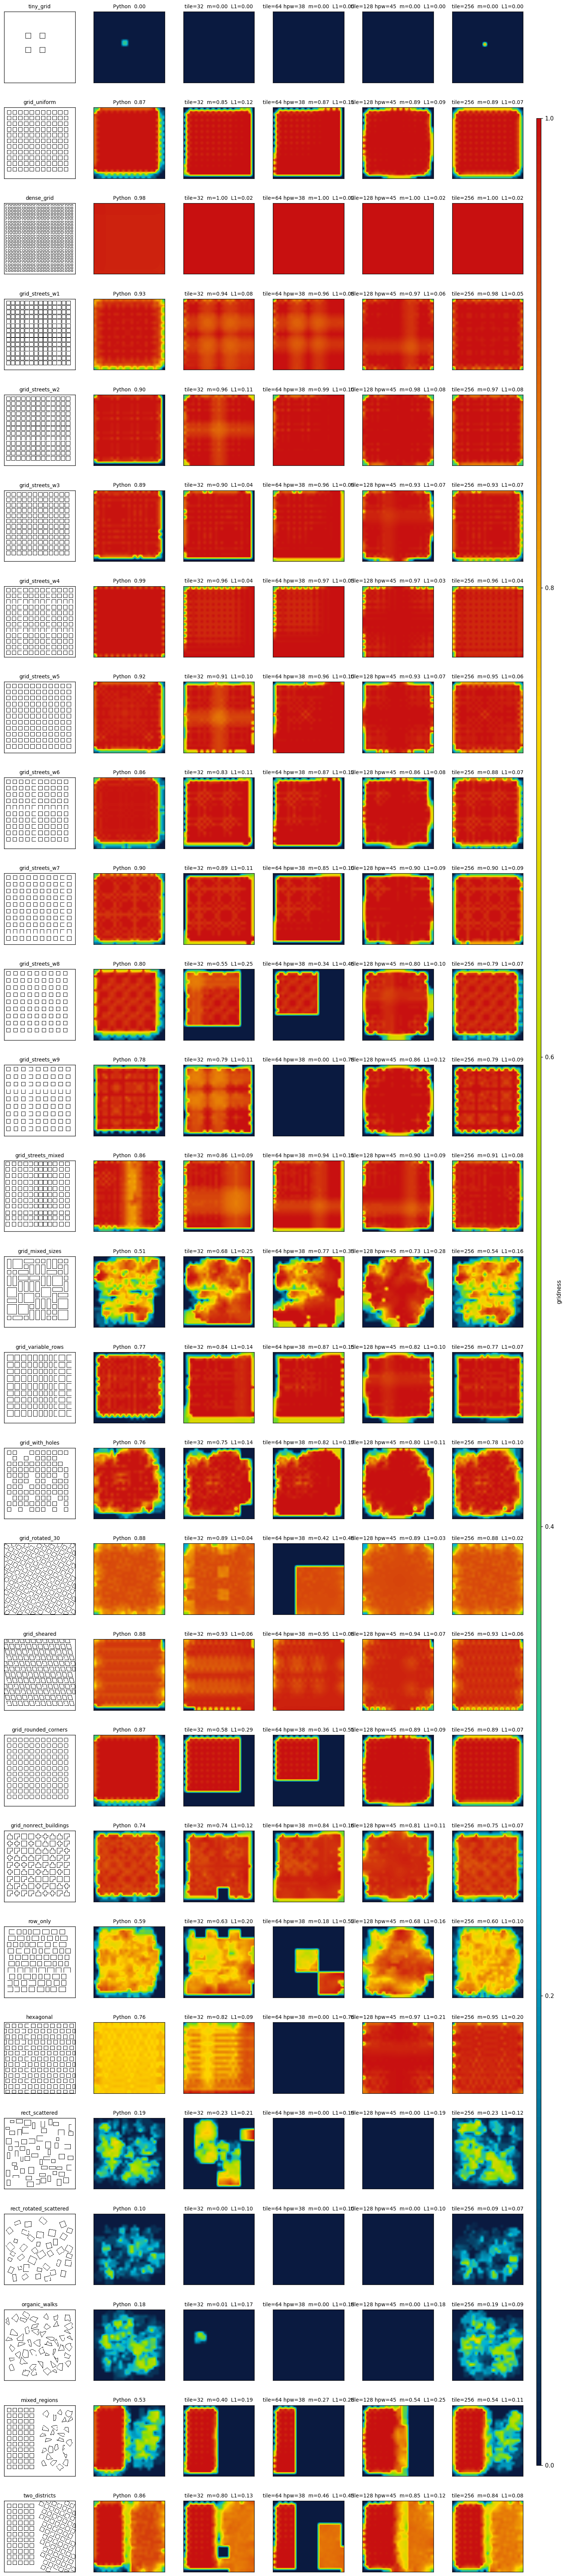
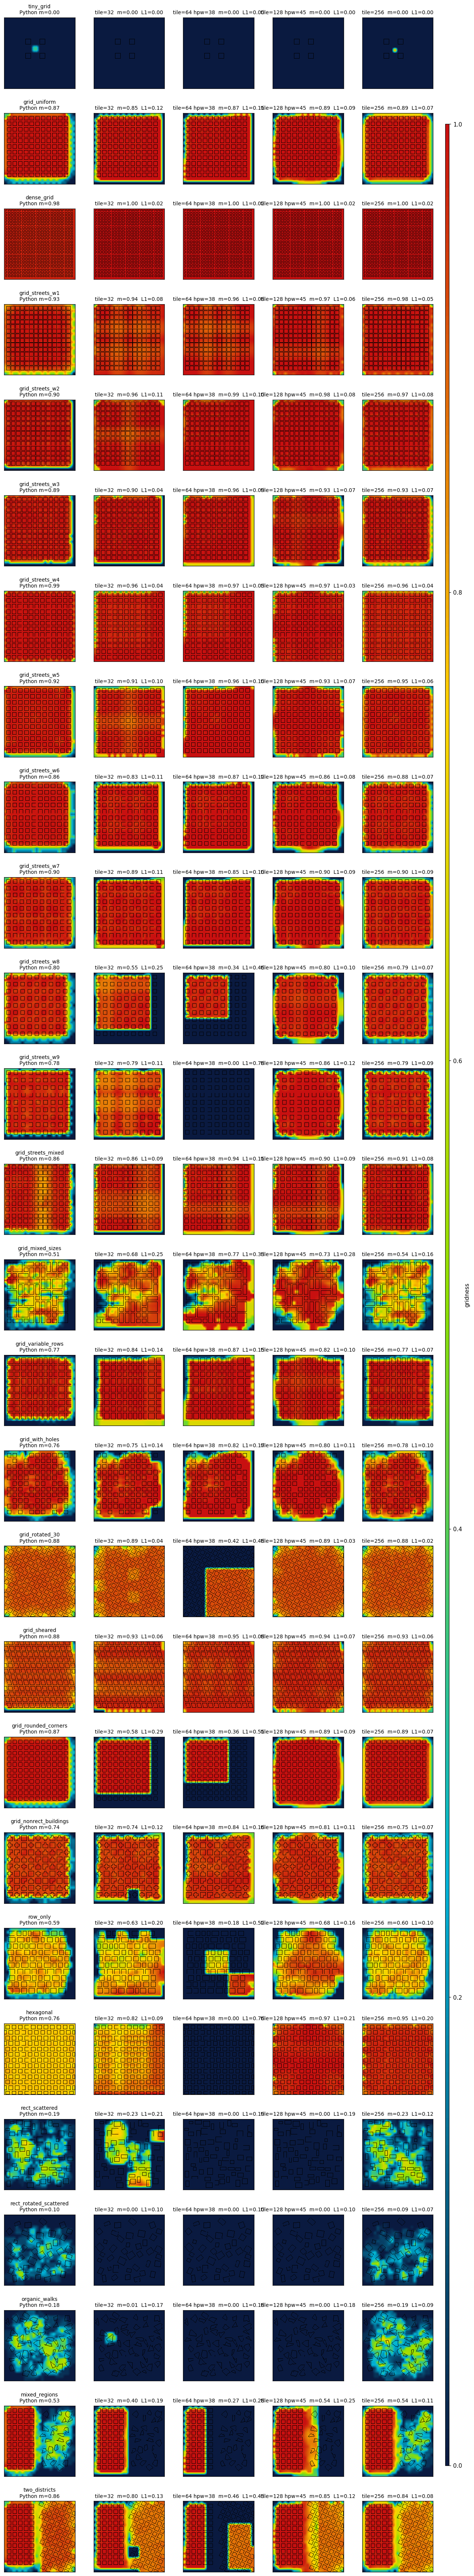
viz: fuse walls + heatmap into a single picture
Both viewers now overlay walls directly on top of the gridness
heatmap instead of showing them side-by-side.

- Python (scripts/compare_four_cols.py + src/gridness/viz.py): each
  panel = bilinear-upsampled colormap with crisp wall pixels on top
  via a transparent RGBA overlay. The standalone walls column is
  removed since structure is now visible in every panel. 5 columns:
  Python | Java tile=32 | tile=64 hpw=38 | tile=128 hpw=45 | tile=256.
- Java GridnessViewer: WallPanel + HeatmapPanel collapsed into a
  single FusedPanel that paints heatmap first (BILINEAR scaling),
  then walls (NEAREST scaling) at full field resolution. The
  headless --snapshot mode renders the same fused image.
- StatsPanel now reads defaults at runtime instead of hardcoding
  the old tile=32 string.

diff --git a/java/src/main/java/com/dkorduban/gridness/viz/GridnessViewer.java b/java/src/main/java/com/dkorduban/gridness/viz/GridnessViewer.java
@@ -30,8 +30,7 @@ public final class GridnessViewer extends JFrame {
     private static final int REPAINT_HZ = 30;
     private static final int STATS_WINDOW = 1024;
 
-    private final WallPanel wallPanel;
-    private final HeatmapPanel heatmapPanel;
+    private final FusedPanel fusedPanel;
     private final StatsPanel statsPanel;
     private final SimThread simThread;
 
@@ -39,27 +38,21 @@ public final class GridnessViewer extends JFrame {
         super("gridness viewer  —  " + fx.name + "  (" + fx.width + "x" + fx.height + ")");
         setDefaultCloseOperation(EXIT_ON_CLOSE);
 
-        wallPanel = new WallPanel(fx.width, fx.height);
-        heatmapPanel = new HeatmapPanel(fx.width, fx.height);
+        fusedPanel = new FusedPanel(fx.width, fx.height);
         statsPanel = new StatsPanel();
 
-        JPanel viz = new JPanel(new GridLayout(1, 2, 8, 0));
-        viz.add(wrapWithLabel("walls", wallPanel));
-        viz.add(wrapWithLabel("gridness heatmap", heatmapPanel));
-
         setLayout(new BorderLayout(0, 8));
-        add(viz, BorderLayout.CENTER);
+        add(wrapWithLabel("walls + gridness heatmap (fused)", fusedPanel), BorderLayout.CENTER);
         add(statsPanel, BorderLayout.SOUTH);
 
         pack();
         setLocationRelativeTo(null);
 
         simThread = new SimThread(fx, parseMode(modeArg), "cycle".equalsIgnoreCase(modeArg),
-                wallPanel, heatmapPanel, statsPanel);
+                fusedPanel, statsPanel);
 
         Timer timer = new Timer(1000 / REPAINT_HZ, e -> {
-            wallPanel.repaint();
-            heatmapPanel.repaint();
+            fusedPanel.repaint();
             statsPanel.refresh();
         });
         timer.start();
@@ -129,22 +122,12 @@ public final class GridnessViewer extends JFrame {
         int W = fx.width, H = fx.height;
         int pad = 8;
         int statsH = 140;
-        BufferedImage composed = new BufferedImage(W * 2 + pad * 3, H + pad * 2 + statsH, BufferedImage.TYPE_INT_RGB);
+        BufferedImage composed = new BufferedImage(W + pad * 2, H + pad * 2 + statsH, BufferedImage.TYPE_INT_RGB);
         Graphics2D g2 = composed.createGraphics();
         g2.setColor(new Color(20, 20, 24));
         g2.fillRect(0, 0, composed.getWidth(), composed.getHeight());
 
-        // Walls
-        int[] wpix = new int[W * H];
-        for (int y = 0; y < H; y++) {
-            int base = y * W;
-            for (int x = 0; x < W; x++) wpix[base + x] = g.isWall(x, y) ? 0x202028 : 0xeeeeee;
-        }
-        BufferedImage wallsImg = new BufferedImage(W, H, BufferedImage.TYPE_INT_RGB);
-        wallsImg.setRGB(0, 0, W, H, wpix, 0, W);
-        g2.drawImage(wallsImg, pad, pad, null);
-
-        // Heatmap
+        // Fused: heatmap bilinear-upsampled, then walls overlaid at full resolution.
         double[][] heat = g.readRect(0, 0, W, H);
         int ny = heat.length, nx = ny > 0 ? heat[0].length : 0;
         BufferedImage heatImg = new BufferedImage(nx, ny, BufferedImage.TYPE_INT_RGB);
@@ -154,7 +137,17 @@ public final class GridnessViewer extends JFrame {
         }
         heatImg.setRGB(0, 0, nx, ny, hpix, 0, nx);
         g2.setRenderingHint(RenderingHints.KEY_INTERPOLATION, RenderingHints.VALUE_INTERPOLATION_BILINEAR);
-        g2.drawImage(heatImg, W + 2 * pad, pad, W, H, null);
+        g2.drawImage(heatImg, pad, pad, W, H, null);
+
+        BufferedImage wallsImg = new BufferedImage(W, H, BufferedImage.TYPE_INT_ARGB);
+        int[] wpix = new int[W * H];
+        for (int y = 0; y < H; y++) {
+            int base = y * W;
+            for (int x = 0; x < W; x++) wpix[base + x] = g.isWall(x, y) ? 0xFF000000 : 0x00000000;
+        }
+        wallsImg.setRGB(0, 0, W, H, wpix, 0, W);
+        g2.setRenderingHint(RenderingHints.KEY_INTERPOLATION, RenderingHints.VALUE_INTERPOLATION_NEAREST_NEIGHBOR);
+        g2.drawImage(wallsImg, pad, pad, W, H, null);
 
         // Stats
         g2.setColor(new Color(240, 240, 240));
@@ -185,22 +178,20 @@ public final class GridnessViewer extends JFrame {
         private final LayoutFixture fx;
         private final BuildSim.Mode initialMode;
         private final boolean cycle;
-        private final WallPanel wallPanel;
-        private final HeatmapPanel heatmapPanel;
+        private final FusedPanel fusedPanel;
         private final StatsPanel statsPanel;
         private final Gridness g;
         private final LatencyStats latencyPerTick = new LatencyStats(STATS_WINDOW);
         private final LatencyStats latencyPerCell = new LatencyStats(STATS_WINDOW);
 
         SimThread(LayoutFixture fx, BuildSim.Mode mode, boolean cycle,
-                  WallPanel wallPanel, HeatmapPanel heatmapPanel, StatsPanel statsPanel) {
+                  FusedPanel fusedPanel, StatsPanel statsPanel) {
             super("gridness-sim");
             setDaemon(true);
             this.fx = fx;
             this.initialMode = mode;
             this.cycle = cycle;
-            this.wallPanel = wallPanel;
-            this.heatmapPanel = heatmapPanel;
+            this.fusedPanel = fusedPanel;
             this.statsPanel = statsPanel;
             this.g = new Gridness(fx.width, fx.height, GridnessParams.defaults());
             statsPanel.bind(latencyPerTick, latencyPerCell, g);
@@ -221,11 +212,10 @@ public final class GridnessViewer extends JFrame {
                 latencyPerTick.record(elapsed);
                 if (n > 0) latencyPerCell.record(elapsed / n);
 
-                // Snapshot field + heatmap into the display buffers. Read on the
+                // Snapshot field + heatmap into the display buffer. Read on the
                 // sim thread (the only thread that touches Gridness) and publish
                 // atomically for the EDT.
-                wallPanel.publish(g);
-                heatmapPanel.publish(g);
+                fusedPanel.publish(g);
 
                 // Throttle so the viewer can keep up visually; doing 1000s of
                 // ticks per second gives no human-visible difference.
@@ -247,82 +237,62 @@ public final class GridnessViewer extends JFrame {
 
     // ============================== panels ==============================
 
-    /** Renders the walls boolean grid as a 1bpp BufferedImage. */
-    private static final class WallPanel extends JComponent {
+    /**
+     * Single panel: bilinear-upsampled heatmap painted first, then walls
+     * overlaid on top at full field resolution so structures stay crisp.
+     * Walls use a TYPE_INT_ARGB image so non-wall cells are fully
+     * transparent — the heatmap shows through everywhere except wall
+     * pixels (drawn as opaque black).
+     */
+    private static final class FusedPanel extends JComponent {
         private final int W, H;
-        private final AtomicReference<BufferedImage> img = new AtomicReference<>();
-        private BufferedImage scratch;
-
-        WallPanel(int W, int H) {
-            this.W = W; this.H = H;
-            setPreferredSize(new Dimension(W * CELL_PX, H * CELL_PX));
-            setBackground(Color.WHITE);
-            scratch = new BufferedImage(W, H, BufferedImage.TYPE_INT_RGB);
-        }
-
-        void publish(Gridness g) {
-            BufferedImage local = scratch;
-            int[] pix = ((DataBufferInt) local.getRaster().getDataBuffer()).getData();
-            for (int y = 0; y < H; y++) {
-                int base = y * W;
-                for (int x = 0; x < W; x++) {
-                    pix[base + x] = g.isWall(x, y) ? 0x000000 : 0xFFFFFF;
-                }
-            }
-            // Double-buffer: publish current, get the previous one for next write.
-            BufferedImage prev = img.getAndSet(local);
-            scratch = prev != null ? prev : new BufferedImage(W, H, BufferedImage.TYPE_INT_RGB);
-        }
-
-        @Override
-        protected void paintComponent(Graphics gr) {
-            BufferedImage current = img.get();
-            if (current == null) {
-                gr.setColor(Color.WHITE);
-                gr.fillRect(0, 0, getWidth(), getHeight());
-                return;
-            }
-            gr.drawImage(current, 0, 0, getWidth(), getHeight(), null);
-        }
-    }
-
-    /** Renders the heatmap with a turbo-ish colormap, upscaled to the panel. */
-    private static final class HeatmapPanel extends JComponent {
-        private final int W, H;
-        private final AtomicReference<BufferedImage> img = new AtomicReference<>();
-        private BufferedImage scratch;
         private final int sampleNx, sampleNy;
+        private final AtomicReference<BufferedImage> heatImg = new AtomicReference<>();
+        private final AtomicReference<BufferedImage> wallImg = new AtomicReference<>();
+        private BufferedImage heatScratch;
+        private BufferedImage wallScratch;
 
-        HeatmapPanel(int W, int H) {
+        FusedPanel(int W, int H) {
             this.W = W; this.H = H;
             this.sampleNx = (W + GridnessParams.defaults().sampleStride - 1) / GridnessParams.defaults().sampleStride;
             this.sampleNy = (H + GridnessParams.defaults().sampleStride - 1) / GridnessParams.defaults().sampleStride;
             setPreferredSize(new Dimension(W * CELL_PX, H * CELL_PX));
             setBackground(Color.BLACK);
-            scratch = new BufferedImage(sampleNx, sampleNy, BufferedImage.TYPE_INT_RGB);
+            heatScratch = new BufferedImage(sampleNx, sampleNy, BufferedImage.TYPE_INT_RGB);
+            wallScratch = new BufferedImage(W, H, BufferedImage.TYPE_INT_ARGB);
         }
 
         void publish(Gridness g) {
             double[][] grid = g.readRect(0, 0, W, H);
-            BufferedImage local = scratch;
-            int[] pix = ((DataBufferInt) local.getRaster().getDataBuffer()).getData();
+            BufferedImage heatLocal = heatScratch;
+            int[] hpix = ((DataBufferInt) heatLocal.getRaster().getDataBuffer()).getData();
             int rows = Math.min(grid.length, sampleNy);
             int cols = rows > 0 ? Math.min(grid[0].length, sampleNx) : 0;
             for (int j = 0; j < rows; j++) {
                 int base = j * sampleNx;
                 double[] row = grid[j];
-                for (int i = 0; i < cols; i++) {
-                    pix[base + i] = colormap(row[i]);
+                for (int i = 0; i < cols; i++) hpix[base + i] = colormap(row[i]);
+            }
+            BufferedImage hPrev = heatImg.getAndSet(heatLocal);
+            heatScratch = hPrev != null ? hPrev : new BufferedImage(sampleNx, sampleNy, BufferedImage.TYPE_INT_RGB);
+
+            BufferedImage wallLocal = wallScratch;
+            int[] wpix = ((DataBufferInt) wallLocal.getRaster().getDataBuffer()).getData();
+            for (int y = 0; y < H; y++) {
+                int base = y * W;
+                for (int x = 0; x < W; x++) {
+                    wpix[base + x] = g.isWall(x, y) ? 0xFF000000 : 0x00000000;
                 }
             }
-            BufferedImage prev = img.getAndSet(local);
-            scratch = prev != null ? prev : new BufferedImage(sampleNx, sampleNy, BufferedImage.TYPE_INT_RGB);
+            BufferedImage wPrev = wallImg.getAndSet(wallLocal);
+            wallScratch = wPrev != null ? wPrev : new BufferedImage(W, H, BufferedImage.TYPE_INT_ARGB);
         }
 
         @Override
         protected void paintComponent(Graphics gr) {
-            BufferedImage current = img.get();
-            if (current == null) {
+            BufferedImage heat = heatImg.get();
+            BufferedImage walls = wallImg.get();
+            if (heat == null || walls == null) {
                 gr.setColor(Color.DARK_GRAY);
                 gr.fillRect(0, 0, getWidth(), getHeight());
                 return;
@@ -330,7 +300,10 @@ public final class GridnessViewer extends JFrame {
             Graphics2D g2 = (Graphics2D) gr;
             g2.setRenderingHint(RenderingHints.KEY_INTERPOLATION,
                     RenderingHints.VALUE_INTERPOLATION_BILINEAR);
-            g2.drawImage(current, 0, 0, getWidth(), getHeight(), null);
+            g2.drawImage(heat, 0, 0, getWidth(), getHeight(), null);
+            g2.setRenderingHint(RenderingHints.KEY_INTERPOLATION,
+                    RenderingHints.VALUE_INTERPOLATION_NEAREST_NEIGHBOR);
+            g2.drawImage(walls, 0, 0, getWidth(), getHeight(), null);
         }
     }
 
@@ -406,9 +379,11 @@ public final class GridnessViewer extends JFrame {
                     sc.meanNs() / 1e6,
                     sc.minNs() / 1e6, sc.p05Ns() / 1e6, sc.p50Ns() / 1e6,
                     sc.p95Ns() / 1e6, sc.p99Ns() / 1e6, sc.maxNs() / 1e6));
+            GridnessParams p = GridnessParams.defaults();
             sim.setText(String.format(
-                    "field=%dx%d  tiles=%d  samples=%d  defaults: tile=32 stride=32 R=30 sampleStride=8",
-                    g.width(), g.height(), g.tileCount(), g.sampleCount()));
+                    "field=%dx%d  tiles=%d  samples=%d  defaults: tile=%d stride=%d hpw=%.0f R=%.0f sampleStride=%d",
+                    g.width(), g.height(), g.tileCount(), g.sampleCount(),
+                    p.tileSize, p.tileStride, p.houghMinPeakWeight, p.radius, p.sampleStride));
         }
     }
 }

diff --git a/scripts/compare_four_cols.py b/scripts/compare_four_cols.py
@@ -1,5 +1,8 @@
-"""6-column comparison per layout:
-  walls | Python v3 | Java tile=32 (defaults, fast) | tile=64 hpw=38 | tile=128 hpw=45 | tile=256 (matching)
+"""5-column fused-overlay comparison per layout:
+  Python v3 | Java tile=32 | tile=64 hpw=38 | tile=128 hpw=45 | tile=256
+
+Each panel shows the gridness heatmap with walls overlaid in black, so
+structure and score are visible in one picture.
 
 tile=64/128 hpw values were tuned by sweep_java_params.py to suppress false
 positives on scattered/organic layouts. tile=32 and tile=256 use their
@@ -17,6 +20,7 @@ import numpy as np
 from matplotlib.colors import LinearSegmentedColormap
 
 from gridness.fixtures import load
+from gridness.viz import walls_overlay_rgba
 
 
 SHARED_CMAP = LinearSegmentedColormap.from_list(
@@ -66,34 +70,33 @@ def main() -> None:
     py_dir = Path("data/layouts_heatmaps_python")
 
     n_rows = len(LAYOUTS)
-    n_cols = 2 + len(JAVA_CONFIGS)
+    n_cols = 1 + len(JAVA_CONFIGS)
     fig, axes = plt.subplots(n_rows, n_cols, figsize=(2.3 * n_cols, 2.4 * n_rows))
 
     summary: dict[str, list[float]] = {label: [] for label, _ in JAVA_CONFIGS}
 
+    def draw_fused(ax, heat, walls_rgba, title, H, W):
+        ax.imshow(heat, cmap=SHARED_CMAP, vmin=0, vmax=1,
+                  interpolation="bilinear", extent=(0, W, H, 0))
+        ax.imshow(walls_rgba, interpolation="nearest", extent=(0, W, H, 0))
+        ax.set_title(title, fontsize=9)
+        ax.set_xticks([]); ax.set_yticks([])
+
     for i, name in enumerate(LAYOUTS):
         fx = load(fx_dir / name)
         H, W = fx.raster.shape
+        walls = fx.raster.astype(bool)
+        walls_rgba = walls_overlay_rgba(walls)
         py = load_heatmap(py_dir / f"{name}.heatmap.txt")
 
-        axes[i, 0].imshow(fx.raster, cmap="gray_r", interpolation="nearest")
-        axes[i, 0].set_title(name, fontsize=9)
-        axes[i, 0].set_xticks([]); axes[i, 0].set_yticks([])
-
-        axes[i, 1].imshow(py, cmap=SHARED_CMAP, vmin=0, vmax=1,
-                          interpolation="bilinear", extent=(0, W, H, 0))
-        axes[i, 1].set_title(f"Python  {py.mean():.2f}", fontsize=9)
-        axes[i, 1].set_xticks([]); axes[i, 1].set_yticks([])
+        draw_fused(axes[i, 0], py, walls_rgba, f"{name}\nPython m={py.mean():.2f}", H, W)
 
         line_parts = [f"{name:28s}  py={py.mean():.3f}"]
         for c, (label, dir_) in enumerate(JAVA_CONFIGS):
             jv = load_heatmap(dir_ / f"{name}.heatmap.txt")
-            ax = axes[i, 2 + c]
-            ax.imshow(jv, cmap=SHARED_CMAP, vmin=0, vmax=1,
-                      interpolation="bilinear", extent=(0, W, H, 0))
             l1 = float(np.mean(np.abs(jv - py)))
-            ax.set_title(f"{label}  m={jv.mean():.2f}  L1={l1:.2f}", fontsize=9)
-            ax.set_xticks([]); ax.set_yticks([])
+            draw_fused(axes[i, 1 + c], jv, walls_rgba,
+                       f"{label}  m={jv.mean():.2f}  L1={l1:.2f}", H, W)
             summary[label].append(l1)
             line_parts.append(f"{label}={jv.mean():.3f}(L1={l1:.3f})")
         print("  " + "  ".join(line_parts))

diff --git a/src/gridness/viz.py b/src/gridness/viz.py
@@ -81,3 +81,15 @@ def _building_overlay(raster: np.ndarray, buildings: list[Building]) -> np.ndarr
             if 0 <= yi < H and 0 <= xi < W:
                 rgb[yi, xi] = [1.0, 0.2, 0.2]
     return np.clip(rgb, 0, 1)
+
+
+def walls_overlay_rgba(walls: np.ndarray) -> np.ndarray:
+    """RGBA image where wall cells are opaque black and non-wall cells are
+    fully transparent. Meant to be drawn on top of a heatmap via a second
+    ax.imshow call with interpolation='nearest' to keep the wall pixels
+    crisp."""
+    H, W = walls.shape
+    rgba = np.zeros((H, W, 4), dtype=float)
+    mask = walls.astype(bool)
+    rgba[mask, 3] = 1.0
+    return rgba